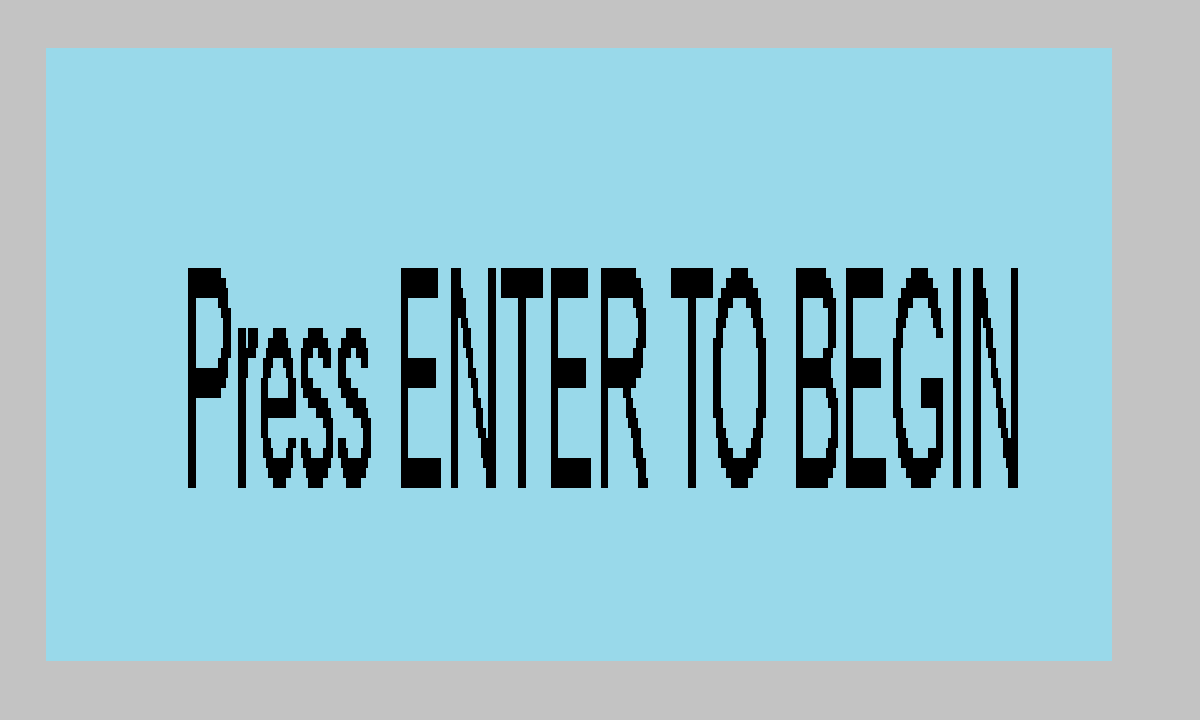
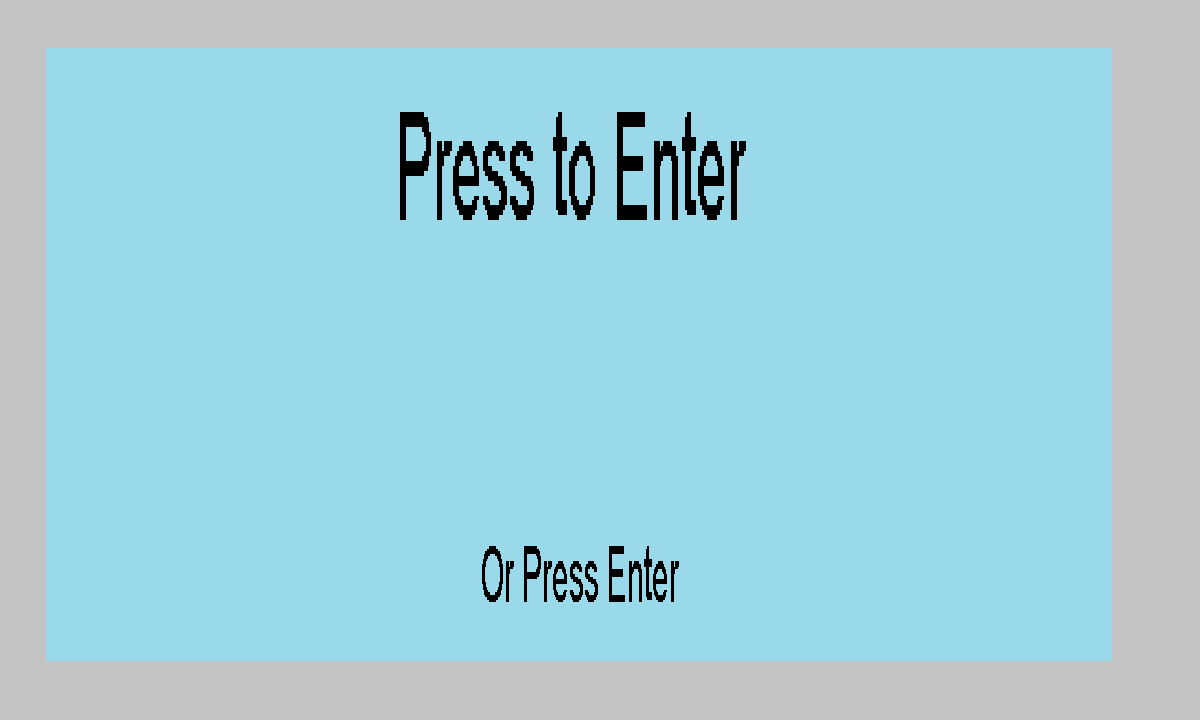
Main Menu Added

Changed region(s): [[0.1542, 0.3667, 0.8633, 0.7028], [0.3083, 0.1528, 0.6167, 0.3056], [0.4008, 0.7639, 0.555, 0.8556]]

diff --git a/src/game.c b/src/game.c
@@ -8,6 +8,7 @@
 #include "gf2d_sprite.h"
 #include "gfc_audio.h"
 #include "SDL_mixer.h"
+#include "gfc_text.h"
 
 #include "gfc_string.h"
 #include "entity.h"
@@ -54,7 +55,7 @@ int main(int argc, char * argv[])
     player_new_pos(2 * 64, 4 * 64);//Hard code for something later and world draw testing
     //attack_new_pos1(4 * 64, 4 * 64,1);//Hard code for something later and world draw testing
     walker_new_pos(4 * 64, 4 * 64);//Hard code for something later and world draw testing
-
+    GFC_Vector2D mousePoint;
 
     gfc_audio_init(32, 8, 1, 1, true, false);
     Mix_VolumeMusic(32);
@@ -90,7 +91,12 @@ int main(int argc, char * argv[])
     //GFC_Rect rect = gfc_rect(0,100,100,5);
     //world_setup_camera(activeworld);
 
-    
+    GFC_Rect buttonStart;
+    buttonStart.x = 450;
+    buttonStart.y = 275;
+    buttonStart.w = 300;
+    buttonStart.h = 150;
+
     for (int i = 0; i < argc; i++)
     {
         slog(argv[i]);
@@ -106,6 +112,7 @@ int main(int argc, char * argv[])
    // gf2d_sprite_load_image("images/backgrounds/test-export2.png");
 
     //MAIN MENU ATTEMPTS
+    sprite = gf2d_sprite_load_image("images/backgrounds/test-export2.png");
     while (!done)
     {
         
@@ -117,8 +124,14 @@ int main(int argc, char * argv[])
         mf += 0.1;
         if (mf >= 16.0)mf = 0;
 
-        
         gf2d_graphics_clear_screen();// clears drawing buffers
+        // all drawing should happen betweem clear_screen and next_frame
+            //backgrounds drawn first
+        gf2d_sprite_draw_image(sprite, gfc_vector2d(0, 0));
+        
+        mousePoint.x = mx;
+        mousePoint.y = my;
+        
         
         // all drawing should happen betweem clear_screen and next_frame
             //backgrounds drawn first
@@ -127,6 +140,13 @@ int main(int argc, char * argv[])
 
         //Between Background and UI
         
+        if (gfc_point_in_rect(mousePoint, buttonStart)) 
+        {
+            gf2d_draw_rect_filled(buttonStart, GFC_COLOR_YELLOW);
+            if (SDL_MOUSEBUTTONDOWN) {
+                done = 1;
+            }
+        }else gf2d_draw_rect_filled(buttonStart, GFC_COLOR_GREY);
 
         //UI elements last
         gf2d_sprite_draw(
@@ -138,6 +158,8 @@ int main(int argc, char * argv[])
             NULL,
             &mouseGFC_Color,
             (int)mf);
+
+
 
        //if (drawFlag == 1) { HighlightTile(mx, my, activeworld); }
         
@@ -163,6 +185,7 @@ int main(int argc, char * argv[])
     slog(music);
     while(!done)
     {
+       
         //Mix_PlayMusic(music, -1);
         //slog("music address is ", music);
         //slog(Mix_PlayMusic(music, -1));
@@ -205,16 +228,7 @@ int main(int argc, char * argv[])
             entity_system_draw();
 
             //UI elements last
-            gf2d_sprite_draw(
-                mouse,
-                gfc_vector2d(mx,my),
-                NULL,
-                NULL,
-                NULL,
-                NULL,
-                &mouseGFC_Color,
-                (int)mf);
-            
+           
             if(entity_player_get())
             {
                 if (entity_player_get()->health <= 0) {
@@ -226,9 +240,22 @@ int main(int argc, char * argv[])
                 }
             }
 
-            //still no
-            if (drawFlag == 1) { HighlightTile(mx, my, activeworld); }
+            
+            if (drawFlag == 1) {
+                gf2d_sprite_draw(
+                    mouse,
+                    gfc_vector2d(mx, my),
+                    NULL,
+                    NULL,
+                    NULL,
+                    NULL,
+                    &mouseGFC_Color,
+                    (int)mf);
+
+                HighlightTile(mx, my, activeworld); 
+            }
           
+            
             
         gf2d_graphics_next_frame();// render current draw frame and skip to the next frame
         
@@ -253,6 +280,6 @@ int main(int argc, char * argv[])
 
 void mainMenu()
 {
-
+   
 }
 /*eol@eof*/

diff --git a/src/player.c b/src/player.c
@@ -333,6 +333,7 @@ void playerUpdate(Entity* self)
 void playerFree(Entity* self)
 {
 	if (!self)return;
+	//gfc_sound_free(music);
 	entity_free(self);
 	
 }
